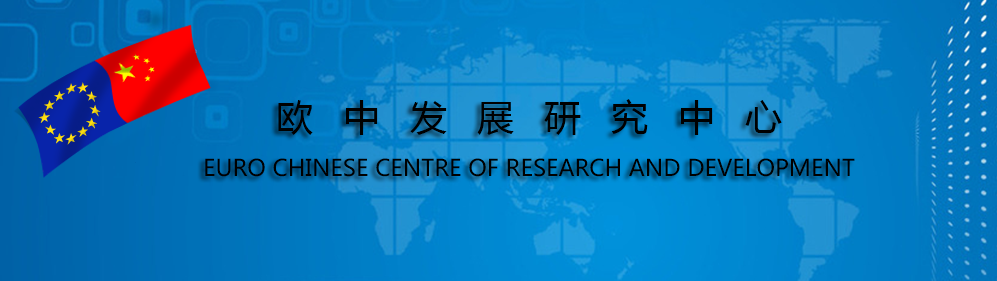
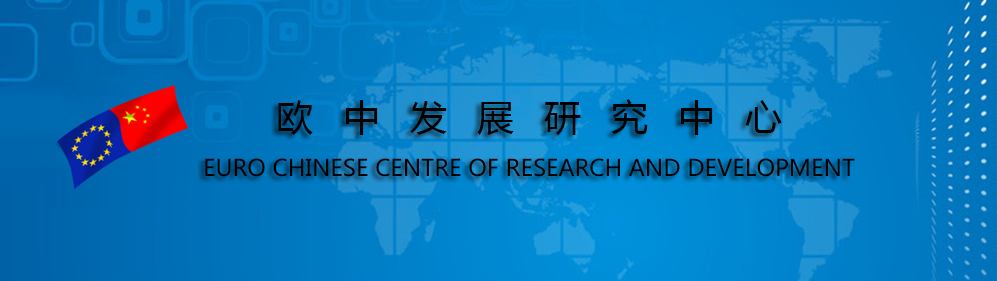
修正BUG:1，视频列表查询异常 2.英文版查询漏洞

Changed region(s): [[0.0, 0.0569, 0.2177, 0.6548]]

diff --git a/src/main/webapp/common/css/index.css b/src/main/webapp/common/css/index.css
@@ -16,14 +16,14 @@ a {
 	text-decoration:none;
 }
 .top {
-	background: url(../images/1_CN.jpg) no-repeat 50% 40%;
+	background: url(../images/1_CN.jpg) no-repeat 50% 60%;
 	height: 200px;
 	width: 1030px;
 	/* margin-left: -50px; */
 	background-size: 100%;
 }
 .topEN {
-	background: url(../images/1_EN.jpg) no-repeat 50% 40%;
+	background: url(../images/1_EN.jpg) no-repeat 50% 60%;
 	height: 200px;
 	width: 1030px;
 	/* margin-left: -50px; */

diff --git a/src/main/java/com/zip/action/EnglishAction.java b/src/main/java/com/zip/action/EnglishAction.java
@@ -83,10 +83,11 @@ public class EnglishAction extends BaseAction{
 		pList.stream().forEach(pMt ->{
 			param.put("model", pMt.get("MT_ID").toString());
 			param.put("max", "9");
+			param.put("title_EN", "title_EN");
 			param.put("status", "1");		// 只取正常的
 			param.put("sort", "UPDATE_TIME");		// 设置排序
 			param.put("order", "DESC");
-			request.setAttribute("list"+pMt.get("MT_ID"), cntInfoService.selectCntBySearch(param));
+			request.setAttribute("list"+pMt.get("MT_ID"), cntInfoService.selectCntByList(param));
 			/*//根据父节点获取所有子节点
 			List<Map<String, Object>> list = mtInfoService.selectMtInfoByParentId(param);
 			//遍历子节点，获取文章信息

diff --git a/src/main/java/com/zip/action/IndexAction.java b/src/main/java/com/zip/action/IndexAction.java
@@ -89,7 +89,7 @@ public class IndexAction extends BaseAction {
 			param.put("status", "1");		// 只取正常的
 			param.put("sort", "UPDATE_TIME");		// 设置排序
 			param.put("order", "DESC");
-			request.setAttribute("list"+pMt.get("MT_ID"), cntInfoService.selectCntBySearch(param));
+			request.setAttribute("list"+pMt.get("MT_ID"), cntInfoService.selectCntByList(param));
 			/*//根据父节点获取所有子节点
 			List<Map<String, Object>> list = mtInfoService.selectMtInfoByParentId(param);
 			//遍历子节点，获取文章信息

diff --git a/src/main/java/com/zip/action/VideoAction.java b/src/main/java/com/zip/action/VideoAction.java
@@ -27,8 +27,6 @@ public class VideoAction extends BaseAction{
 	
 	private void getData() {
 		Map<String, String> param = getParameterMapWithPageInfo();
-		param.put("sort", "INSERT_TIME");
-		param.put("order", "DESC");
 		request.setAttribute("list", videoInfoService.selectVideoInfoByList(param));
 		request.setAttribute("total", param.get("total"));
 	}
